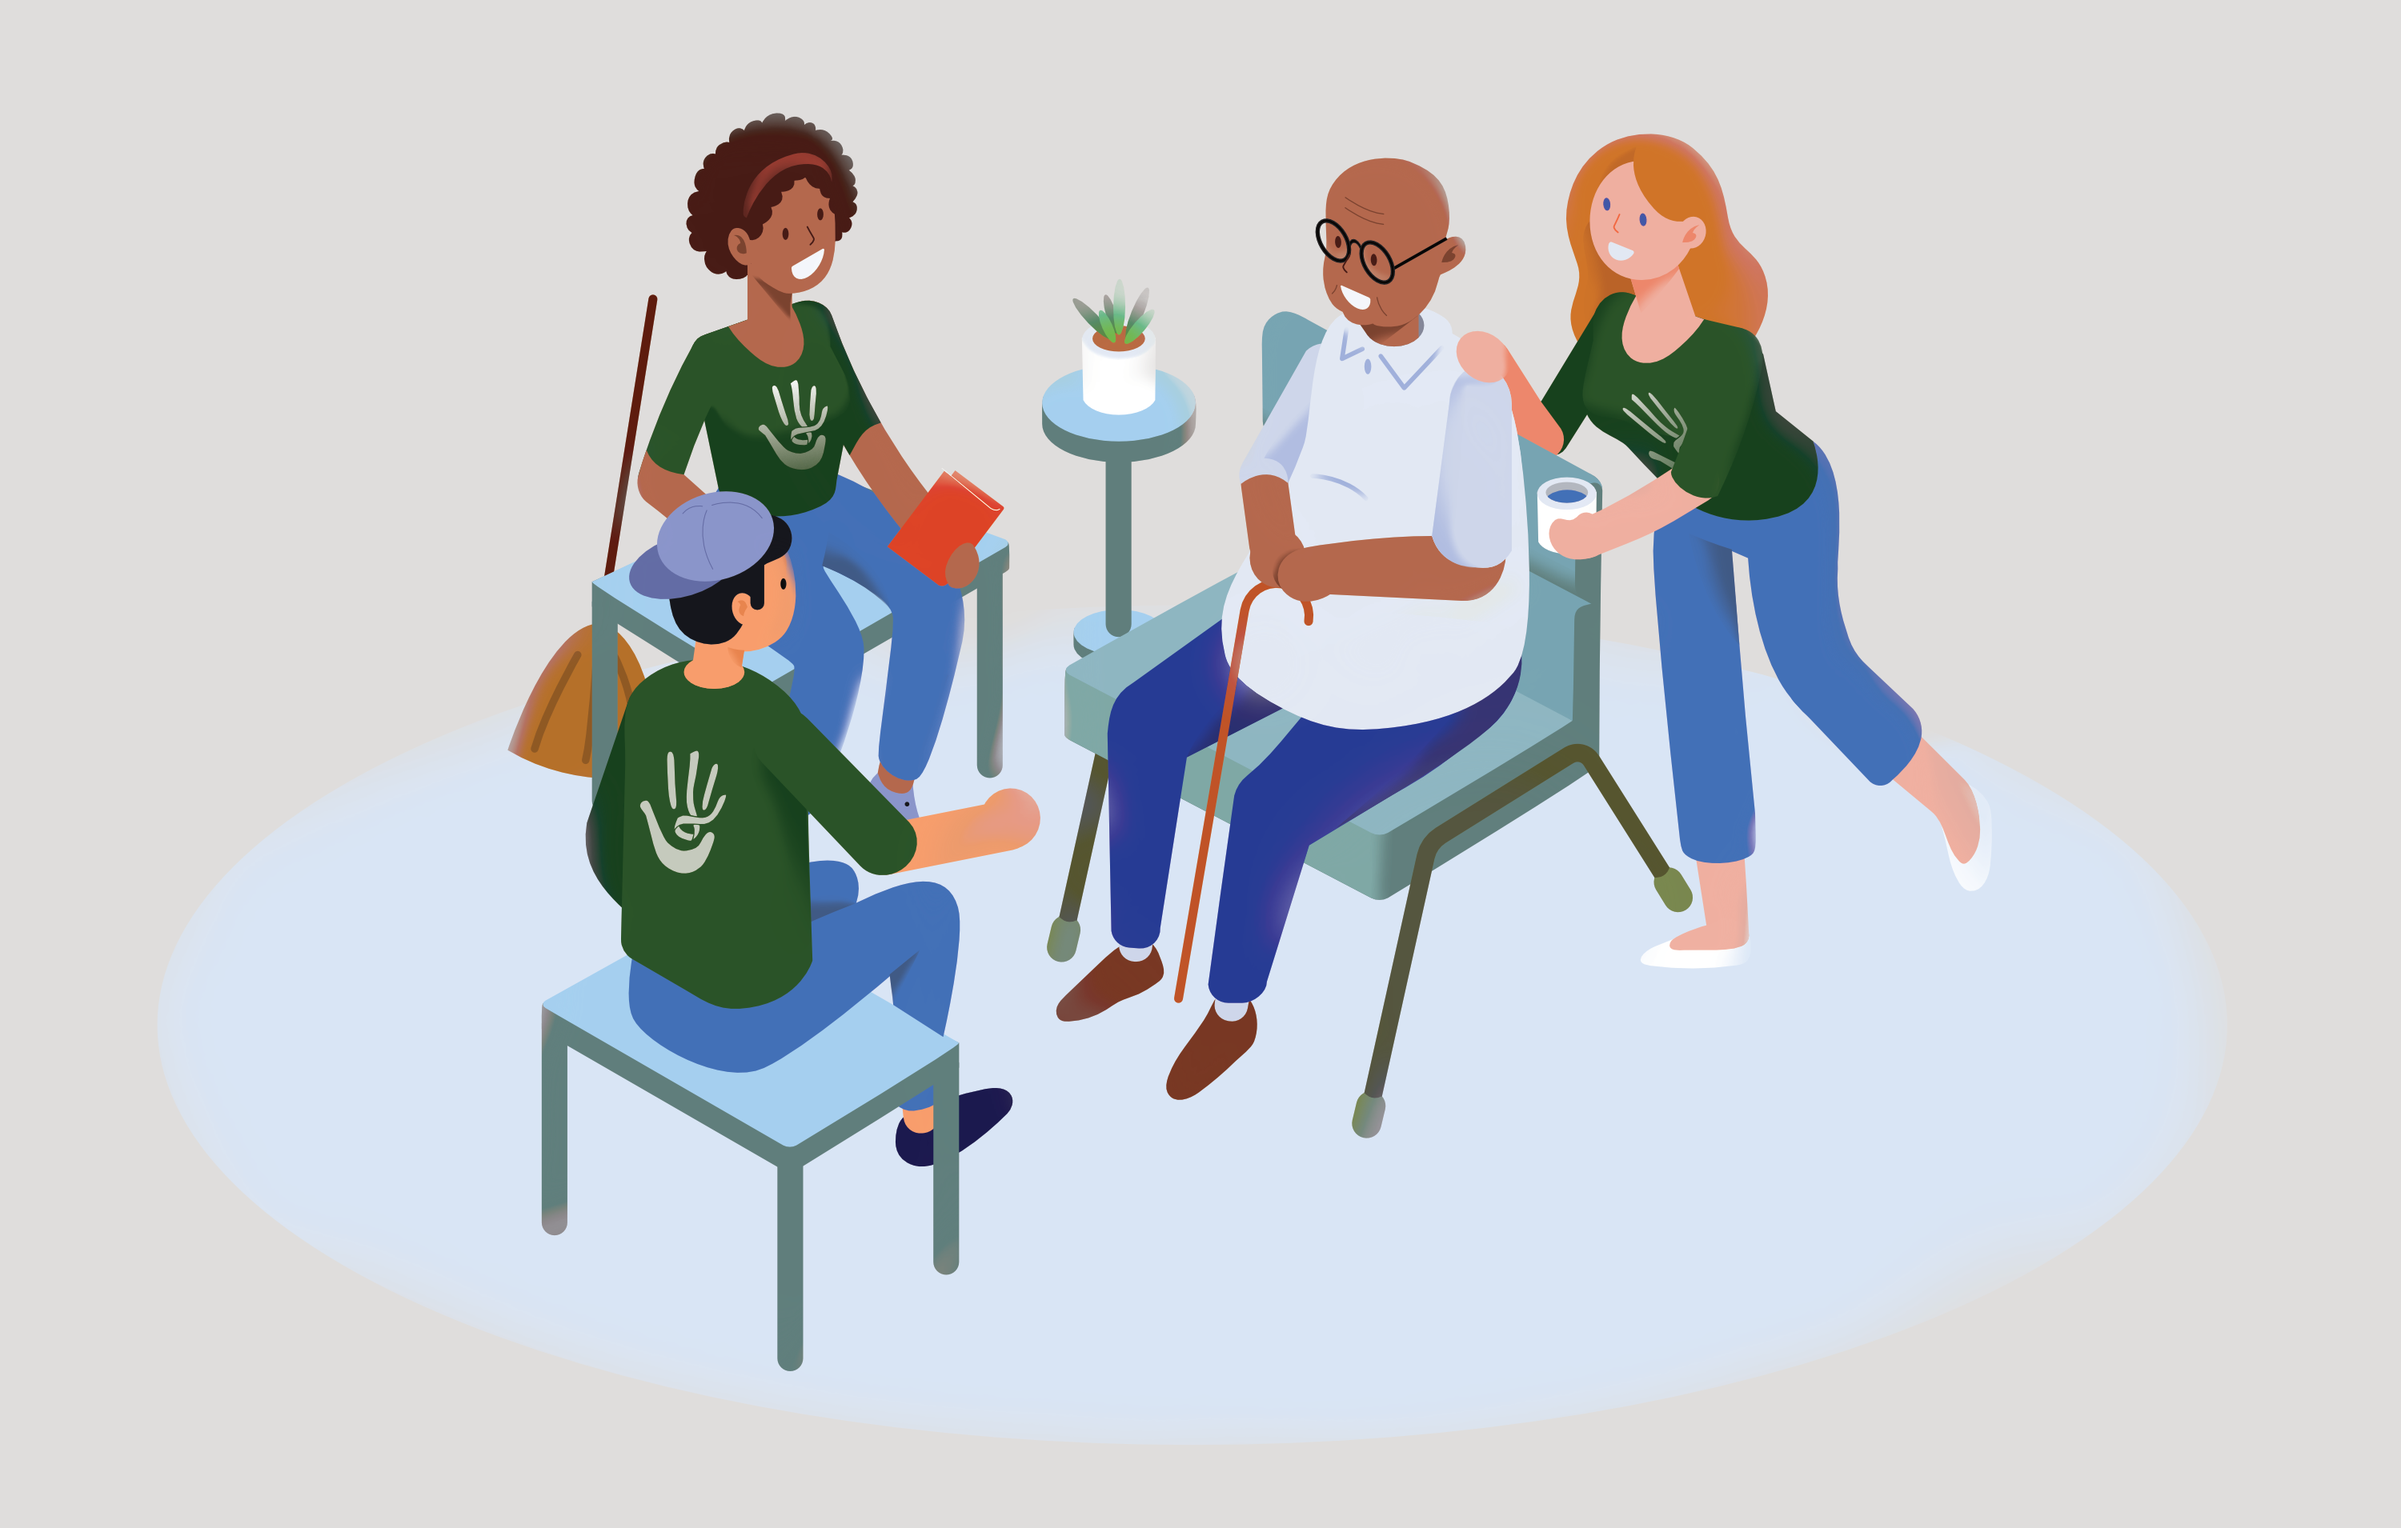
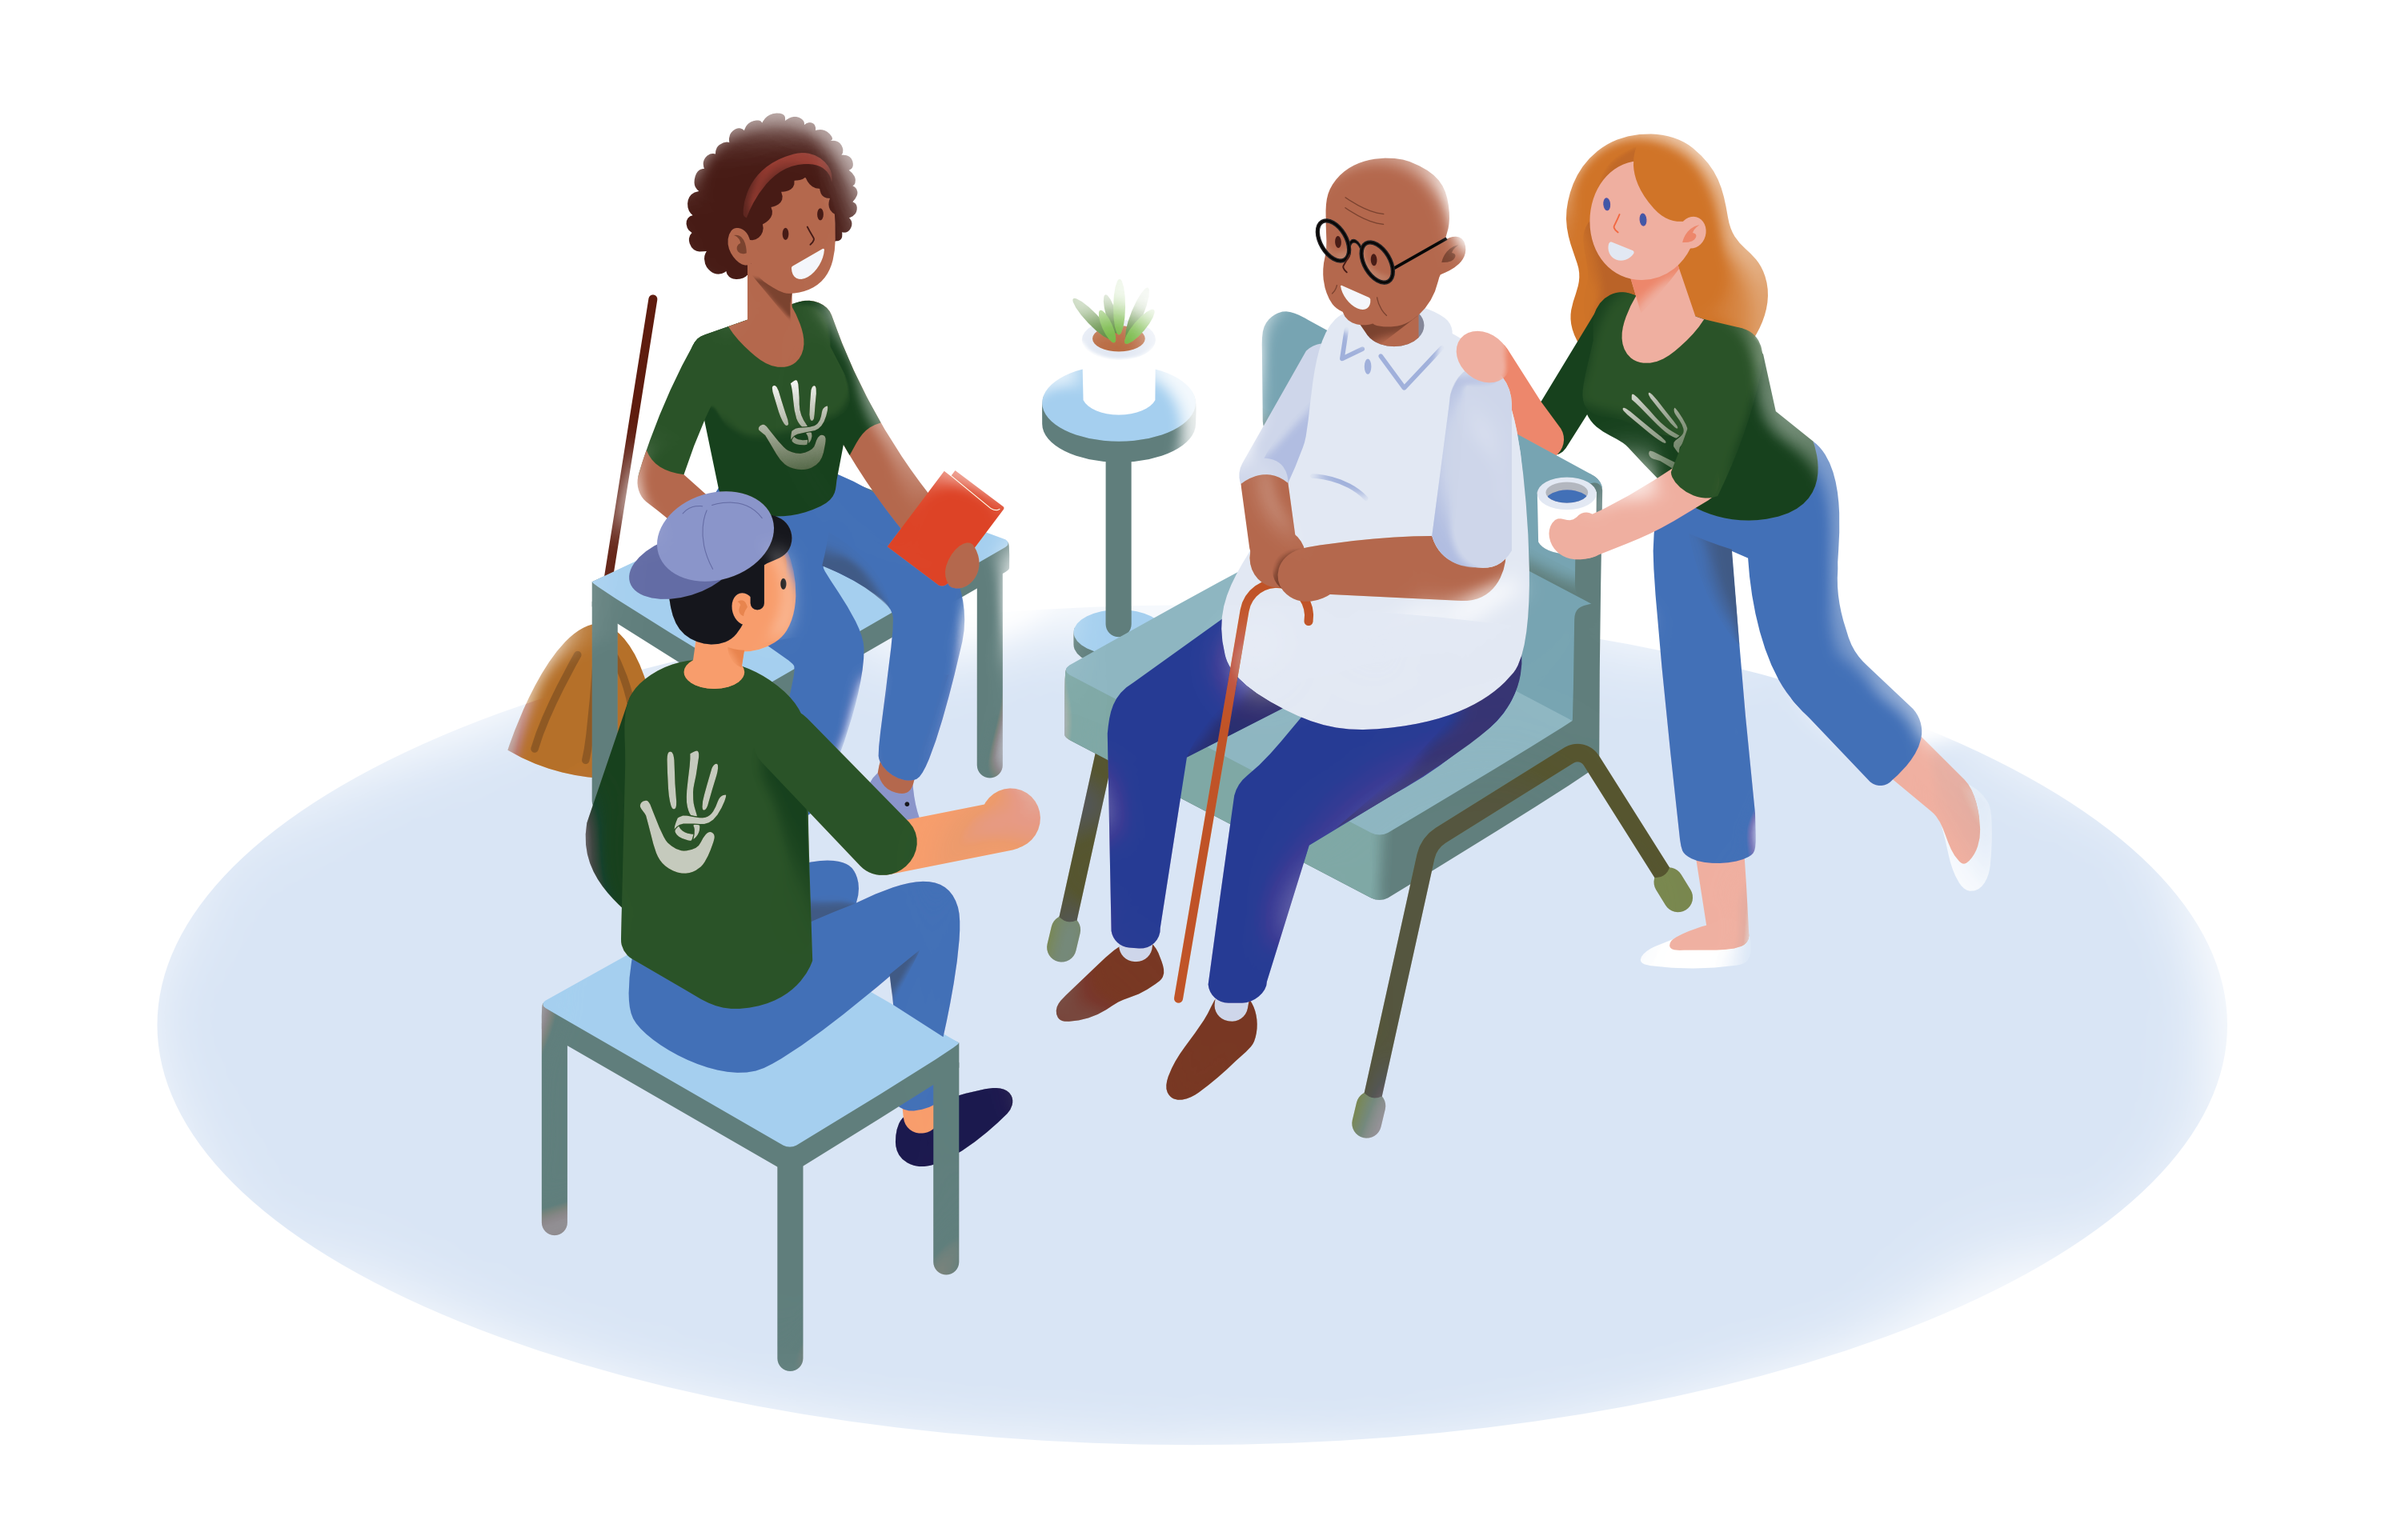
lorisHandsUpdates

diff --git a/partials/partial2.html b/partials/partial2.html
@@ -108,8 +108,17 @@
 			<p class="image-label">sketch 1</p>
 		</div>
 		<div class='col-md-6'>
-			<img ng-src='img/catchafire/LorisHands_illustration_2.png' width='100%' />
+			<img ng-src='img/catchafire/LorisHands_illustration_3.png' width='100%' />
 			<p class="image-label">sketch 2</p>
+		</div>
+
+		<div class='col-md-6'>
+			<img ng-src='img/catchafire/LorisHands_illustration_4.png' width='100%' />
+			<p class="image-label">alternative 1</p>
+		</div>
+		<div class='col-md-6'>
+			<img ng-src='img/catchafire/LorisHands_illustration_5.png' width='100%' />
+			<p class="image-label">alternative 2</p>
 		</div>
 <!-- 		<p class="full-width-image"><img ng-src='img/catchafire/LorisHands_illustration_painted.png' width='100%' /></p> -->
 		<p class="full-width-image"><img ng-src='img/catchafire/LorisHands_illustration_painted2.png' width='100%' /></p>
